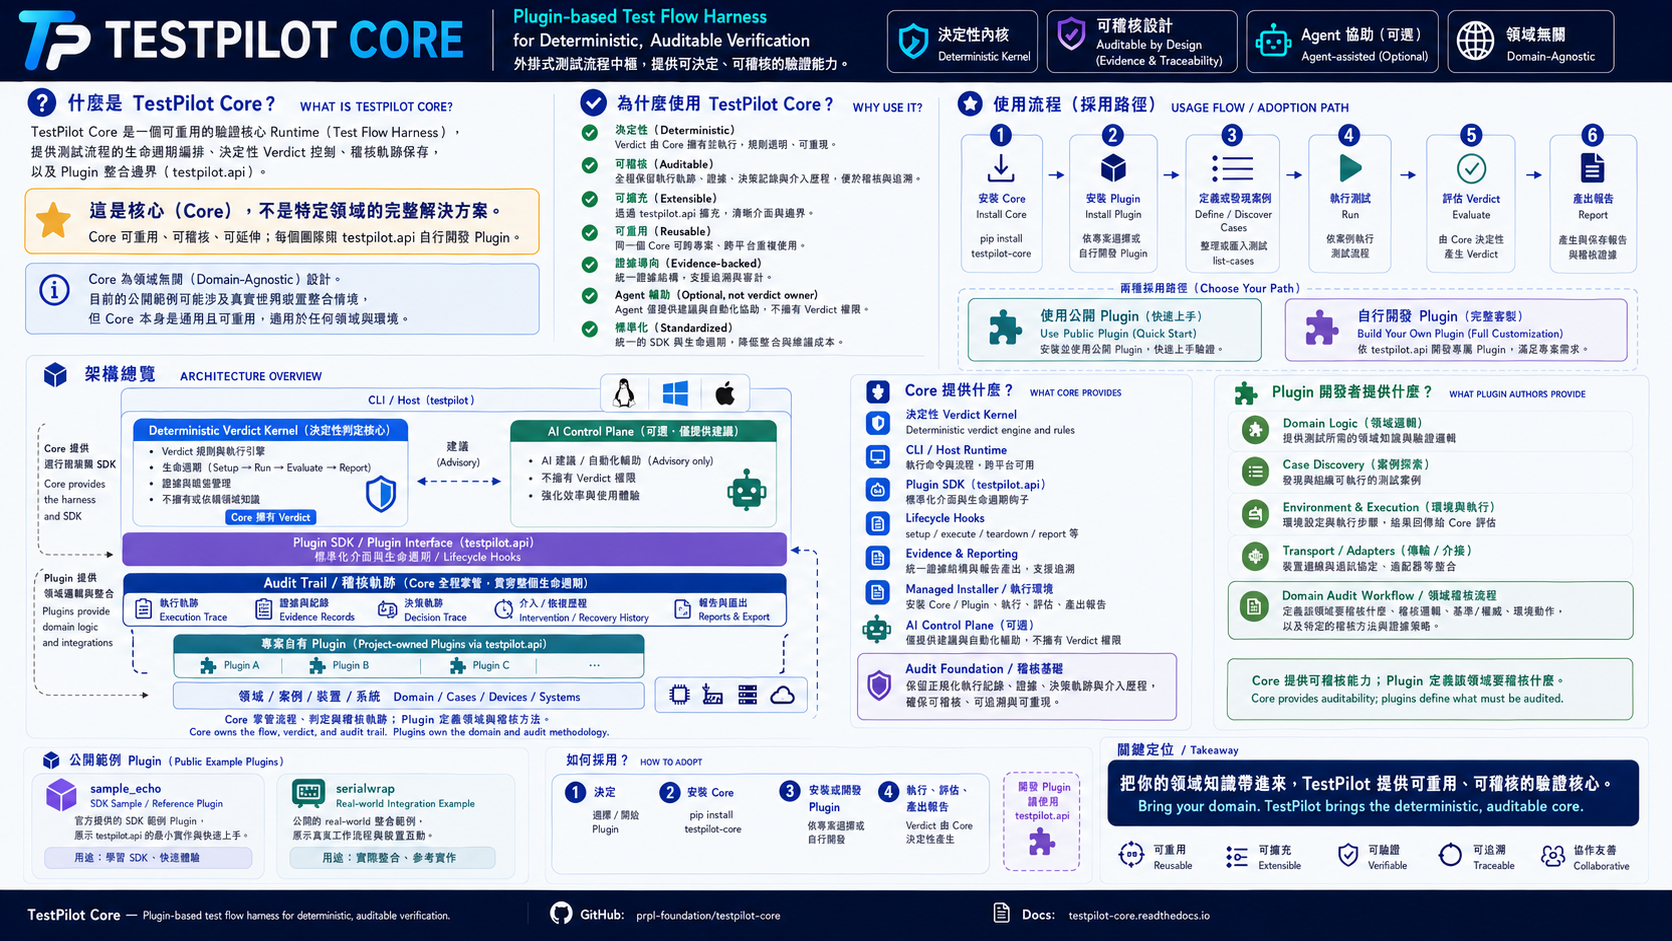
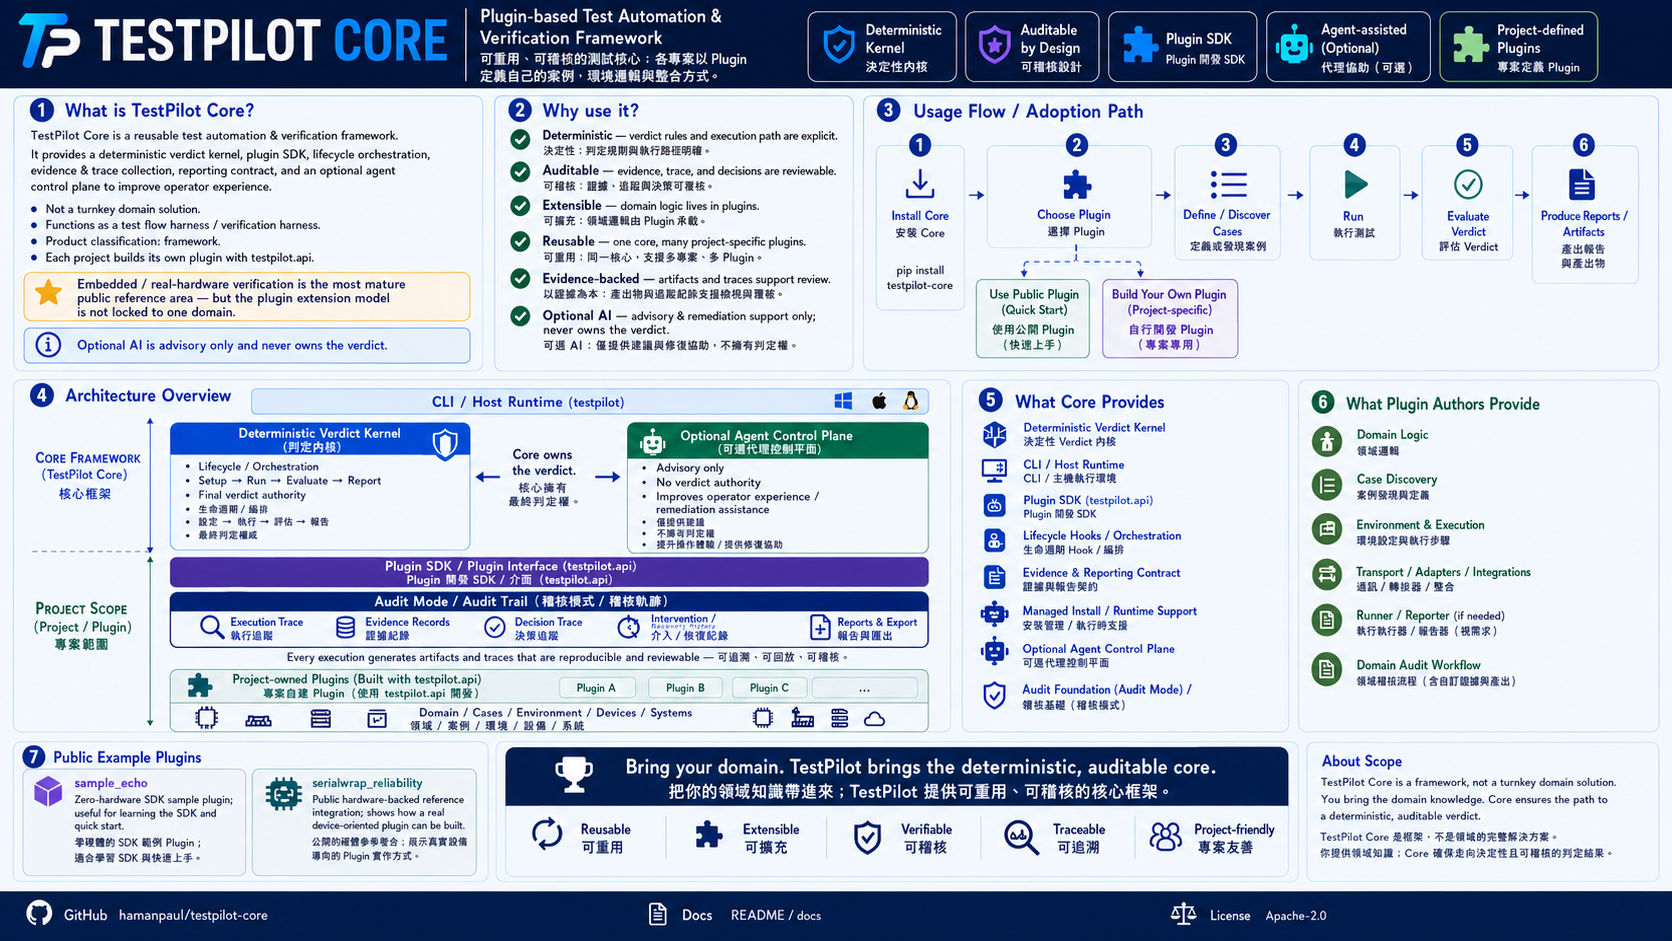
fix(docs): README 架構總覽圖改用 2026-08-11 版 PNG 並移除損毀的 svg (#42)
- `docs/assets/testpilot-core-intro.svg` 內嵌的 base64 webp data URI 被截斷
  （RIFF header 宣告 174,676 bytes，實際僅 14,838 bytes，Pillow 與 ffmpeg
  皆無法解碼），main 上的 README 首圖實際為破圖
- 以 2026-08-11 版 `docs/assets/testpilot-core-intro.png` 取代，位置維持在
  README 原本的 testpilot-core-intro 位置（第 9 行）
- 刪除損毀且與 PNG 重複的 svg

Claude-Session: https://claude.ai/code/session_018wxArkdMCf14bV5zc2Qwyi

diff --git a/changelog.d/readme-intro-image.md b/changelog.d/readme-intro-image.md
@@ -1,0 +1,6 @@
+---
+type: fix
+scope: docs
+---
+
+- 修正 README 架構總覽圖無法顯示的問題：`docs/assets/testpilot-core-intro.svg` 內嵌的 webp data URI 被截斷（RIFF header 宣告 174,676 bytes，實際只有 14,838 bytes，任何解碼器都無法還原），改以更新後的 `docs/assets/testpilot-core-intro.png`（2026-08-11 版，內容已對齊 framework positioning 說法）取代，並移除該壞掉的 svg。

diff --git a/README.md b/README.md
@@ -6,7 +6,7 @@
 
 ---
 
-![TestPilot Core architecture overview](docs/assets/testpilot-core-intro.svg)
+![TestPilot Core architecture overview](docs/assets/testpilot-core-intro.png)
 
 ## Install
 
